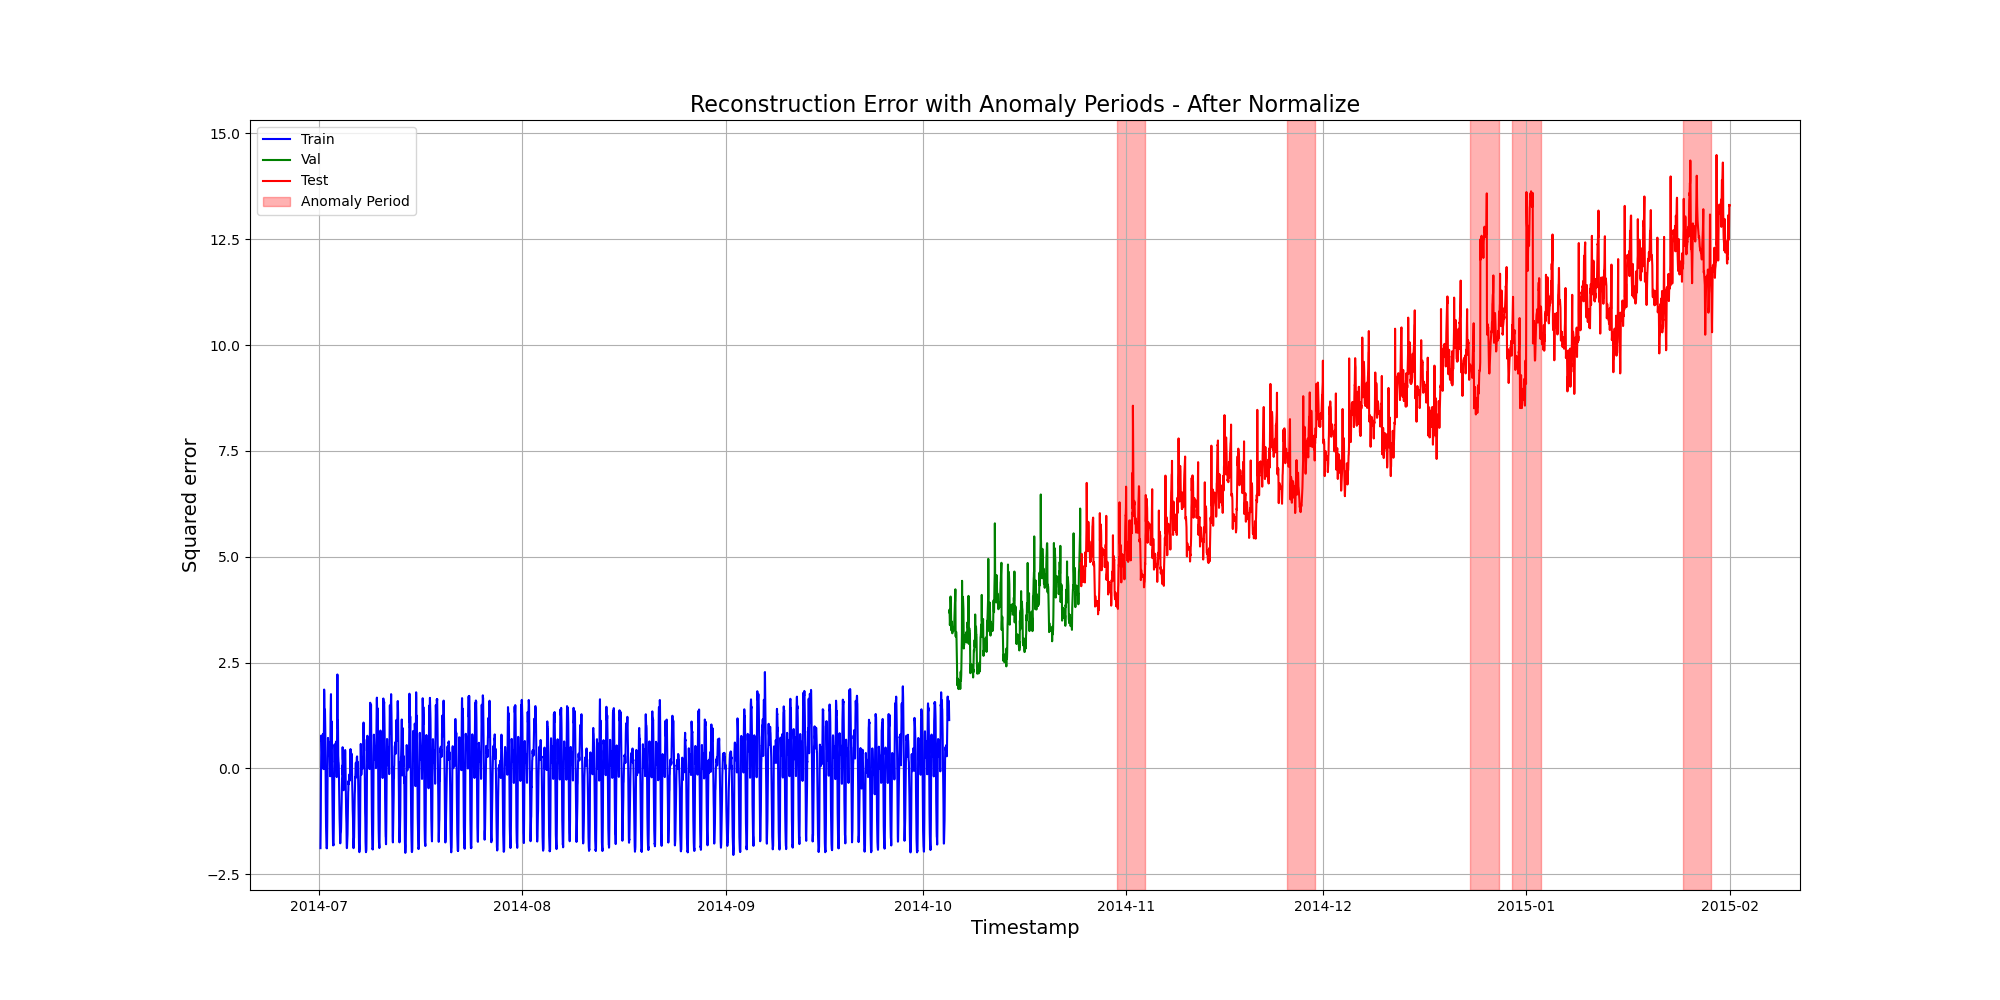
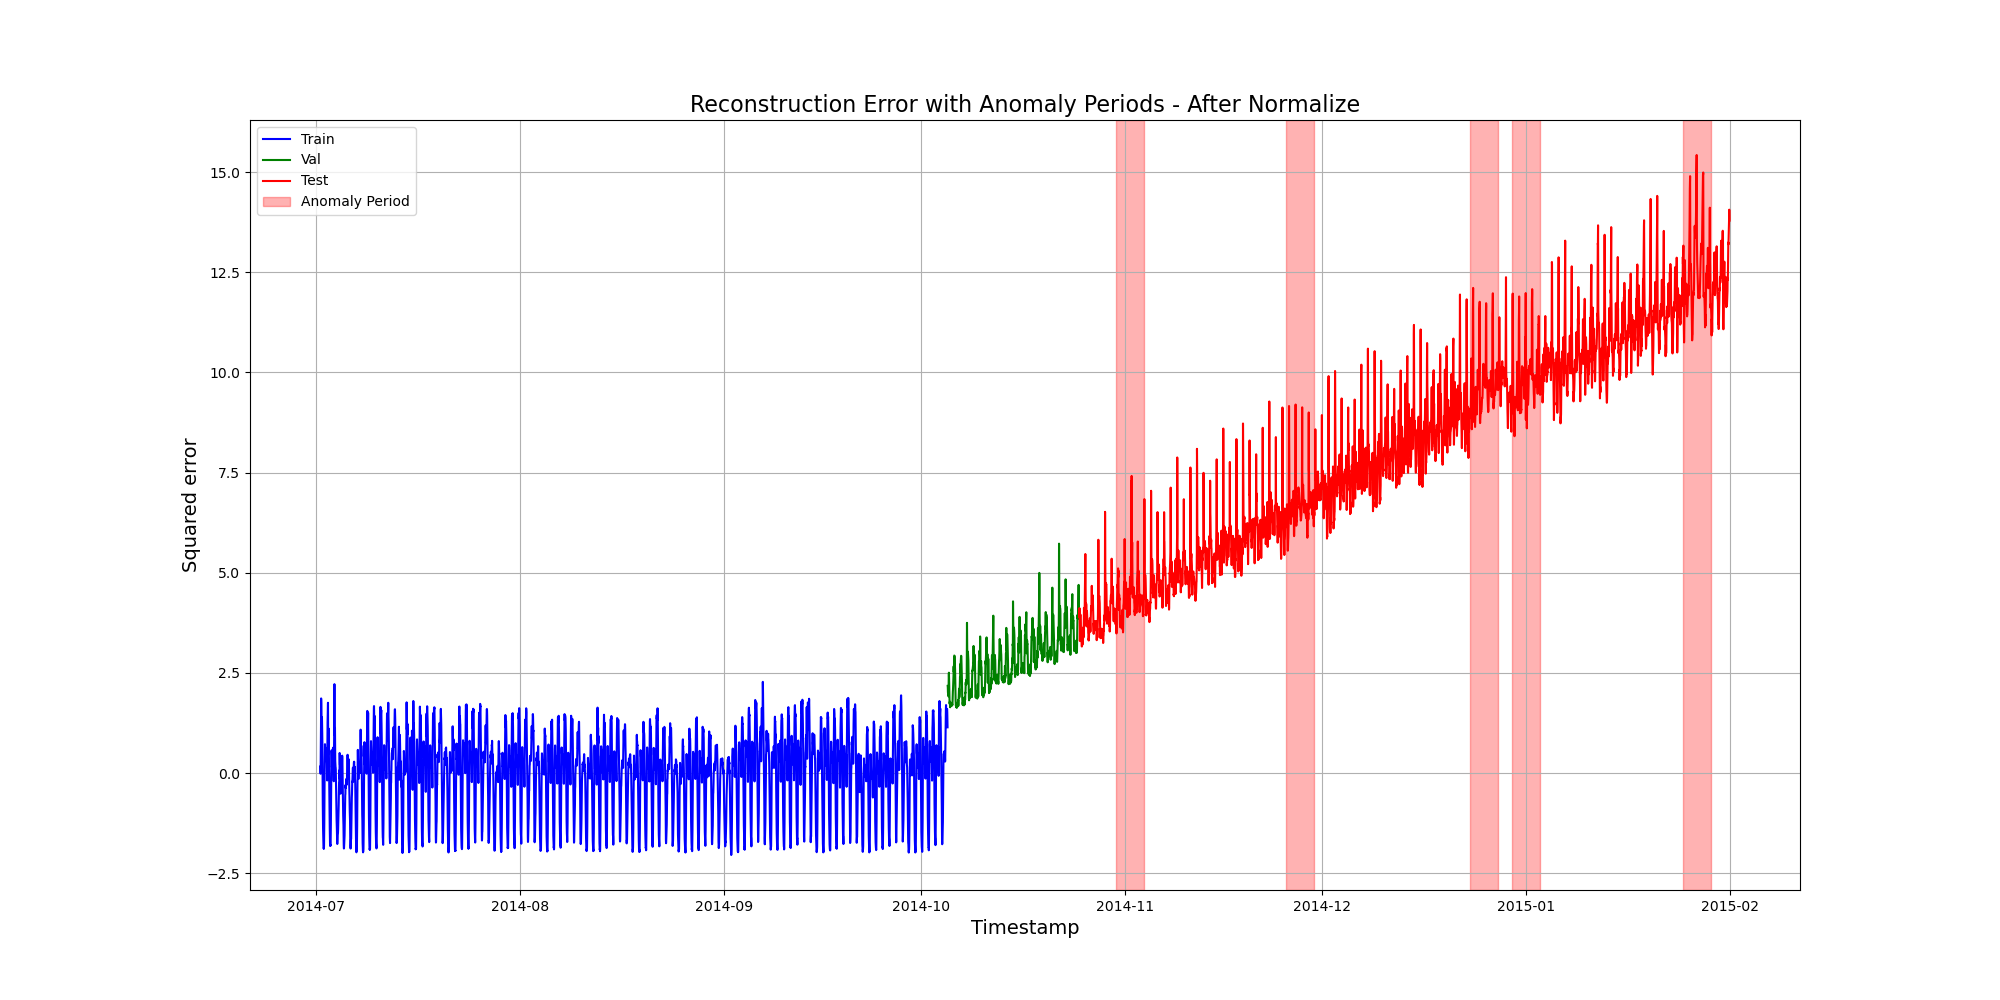
window

diff --git a/models/doc.py b/models/doc.py
@@ -2,7 +2,7 @@ import torch
 import torch.nn as nn 
 
 class DOC(nn.Module):
-    def __init__(self, num_cont_var=4, embedding_dim=4, hidden_size=128, seq_len=11, latent_dim=32, num_layers=2, bidirectional=True):
+    def __init__(self, num_cont_var=4, embedding_dim=2, hidden_size=128, seq_len=32, latent_dim=32, num_layers=2, bidirectional=True):
         super(DOC, self).__init__()
 
         self.dow_embed = nn.Embedding(num_embeddings=7, embedding_dim=embedding_dim)
@@ -21,6 +21,6 @@ class DOC(nn.Module):
 
         concatenated = torch.cat([x_cont, dow_embedded, holiday_embedded], dim=2)
         output, (hidden, cell) = self.lstm(concatenated)
-        output = output.reshape(-1, self.in_dim)
         output = self.fc_out(output)
+
         return output[:, -1, :]

diff --git a/trainers/doc.py b/trainers/doc.py
@@ -14,7 +14,7 @@ from dataset import get_datasets
 from models.doc import DOC
 
 DEVICE="cuda"
-WINDOW=10
+WINDOW=32
 BATCH_SIZE=128
 LR=1e-4
 EPOCHS=150
@@ -23,7 +23,7 @@ LATENT_DIM=32
 
 trainset, valset, testset, dataset = get_datasets(window=WINDOW, lbl_as_feat=True)
 
-model = DOC(num_cont_var=4, embedding_dim=4, hidden_size=128, seq_len=WINDOW+1, latent_dim=LATENT_DIM, num_layers=2, bidirectional=True).to(DEVICE)
+model = DOC(num_cont_var=4, embedding_dim=2, hidden_size=128, seq_len=WINDOW+1, latent_dim=LATENT_DIM, num_layers=2, bidirectional=True).to(DEVICE)
 
 trainloader = DataLoader(trainset, batch_size=BATCH_SIZE, shuffle=True)
 optimizer = optim.Adam(model.parameters(), lr=LR, weight_decay=WEIGHT_DECAY)

diff --git a/trainers/lstm.py b/trainers/lstm.py
@@ -14,13 +14,13 @@ from dataset import get_datasets
 from models.lstm import LSTM
 
 DEVICE="cuda"
-WINDOW=10
+WINDOW=32
 BATCH_SIZE=128
 LR=1e-4
 EPOCHS=150
 
 trainset, valset, testset, dataset = get_datasets(window=WINDOW, lbl_as_feat=False)
-model = LSTM(num_cont_var=4, embedding_dim=4, hidden_size=128, num_layers=2, bidirectional=True).to(DEVICE)
+model = LSTM(num_cont_var=4, embedding_dim=2, hidden_size=128, num_layers=2, bidirectional=True).to(DEVICE)
 
 trainloader = DataLoader(trainset, batch_size=BATCH_SIZE, shuffle=True)
 criterion = nn.MSELoss()

diff --git a/trainers/aelstm.py b/trainers/aelstm.py
@@ -15,14 +15,14 @@ from models.aelstm import AELSTM
 
 DEVICE="cuda"
 
-WINDOW=10
+WINDOW=32
 BATCH_SIZE=128
 LR=1e-4
 EPOCHS=150
 
 trainset, valset, testset, dataset = get_datasets(window=WINDOW, lbl_as_feat=True)
 
-model = AELSTM(num_cont_var=4, embedding_dim=4, hidden_size=128, latent_dim=64).to(DEVICE)
+model = AELSTM(num_cont_var=4, embedding_dim=2, hidden_size=128, latent_dim=64).to(DEVICE)
 
 trainloader = DataLoader(trainset, batch_size=BATCH_SIZE, shuffle=True)
 optimizer = optim.Adam(model.parameters(), lr=LR)

diff --git a/models/aelstm.py b/models/aelstm.py
@@ -65,7 +65,7 @@ class Decoder(nn.Module):
     
 
 class AELSTM(nn.Module):
-    def __init__(self, num_cont_var=4, embedding_dim=4, hidden_size=128, latent_dim=64):
+    def __init__(self, num_cont_var=4, embedding_dim=2, hidden_size=128, latent_dim=64):
         super(AELSTM, self).__init__()
 
         self.encoder = Encoder(num_cont_var=num_cont_var, embedding_dim=embedding_dim, hidden_size=hidden_size, num_layers=1, bidirectional=False)

diff --git a/models/lstm.py b/models/lstm.py
@@ -2,7 +2,7 @@ import torch
 import torch.nn as nn 
 
 class LSTM(nn.Module):
-    def __init__(self, num_cont_var=4, embedding_dim=4, hidden_size=128, num_layers=2, bidirectional=True):
+    def __init__(self, num_cont_var=4, embedding_dim=2, hidden_size=128, num_layers=2, bidirectional=True):
         super(LSTM, self).__init__()
 
         self.dow_embed = nn.Embedding(num_embeddings=7, embedding_dim=embedding_dim)

diff --git a/models/transam.py b/models/transam.py
@@ -19,7 +19,7 @@ class PositionalEncoding(nn.Module):
         return pe + x
     
 class TransAm(nn.Module):
-    def __init__(self, embedding_dim=4, num_cont_var=4, proj_size=250, num_layers=1, dropout=0.1):
+    def __init__(self, embedding_dim=2, num_cont_var=4, proj_size=250, num_layers=1, dropout=0.1):
         super(TransAm, self).__init__()
 
         feature_size = 2*embedding_dim + num_cont_var

diff --git a/trainers/transam.py b/trainers/transam.py
@@ -14,7 +14,7 @@ from dataset import get_datasets
 from models.transam import TransAm
 
 DEVICE="cuda"
-WINDOW=10
+WINDOW=32
 BATCH_SIZE=128
 LR=1e-4
 EPOCHS=150
